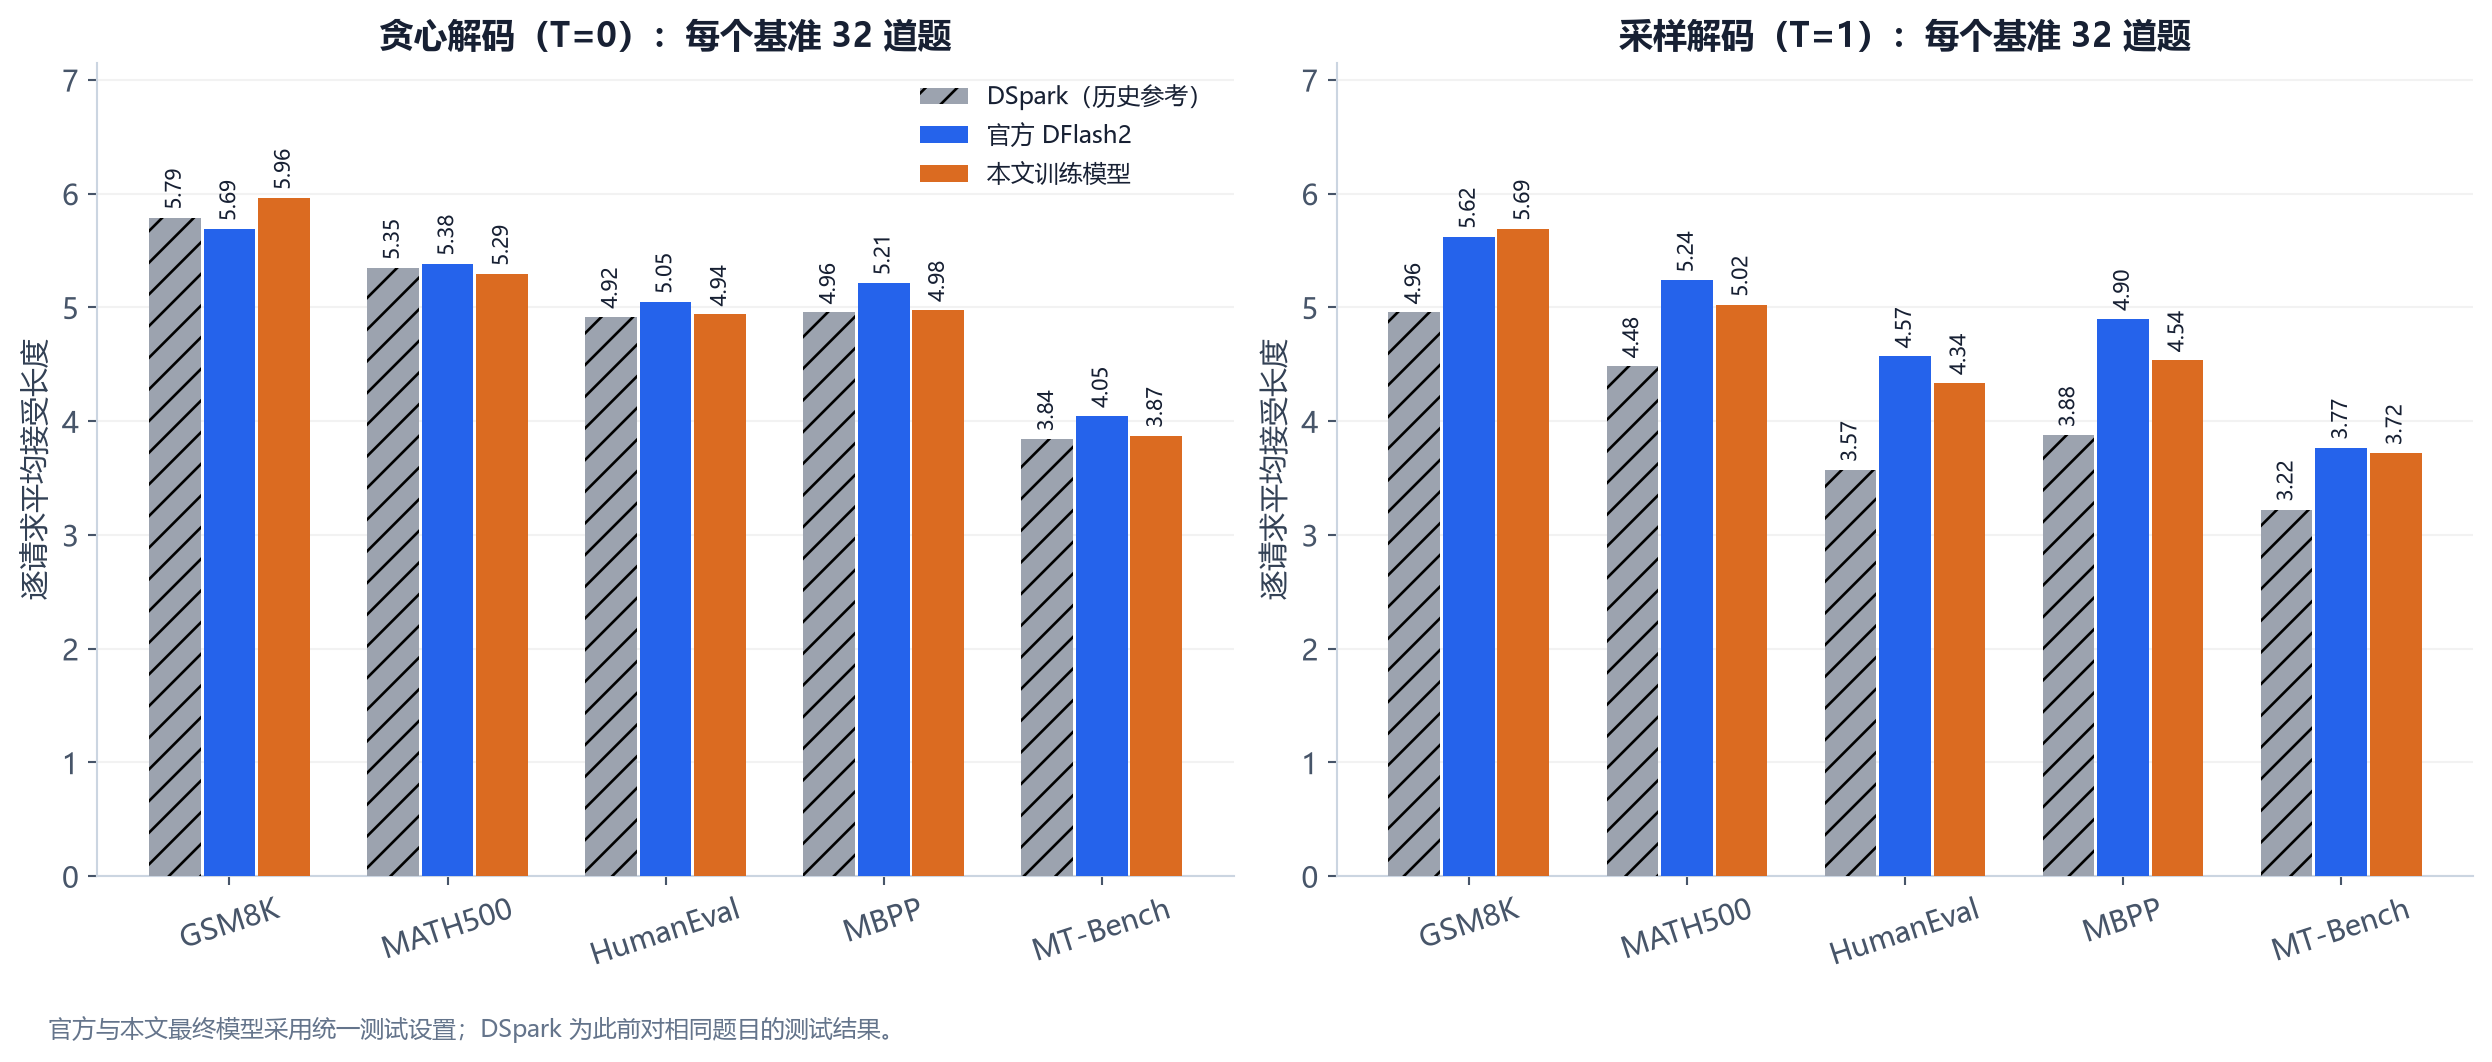
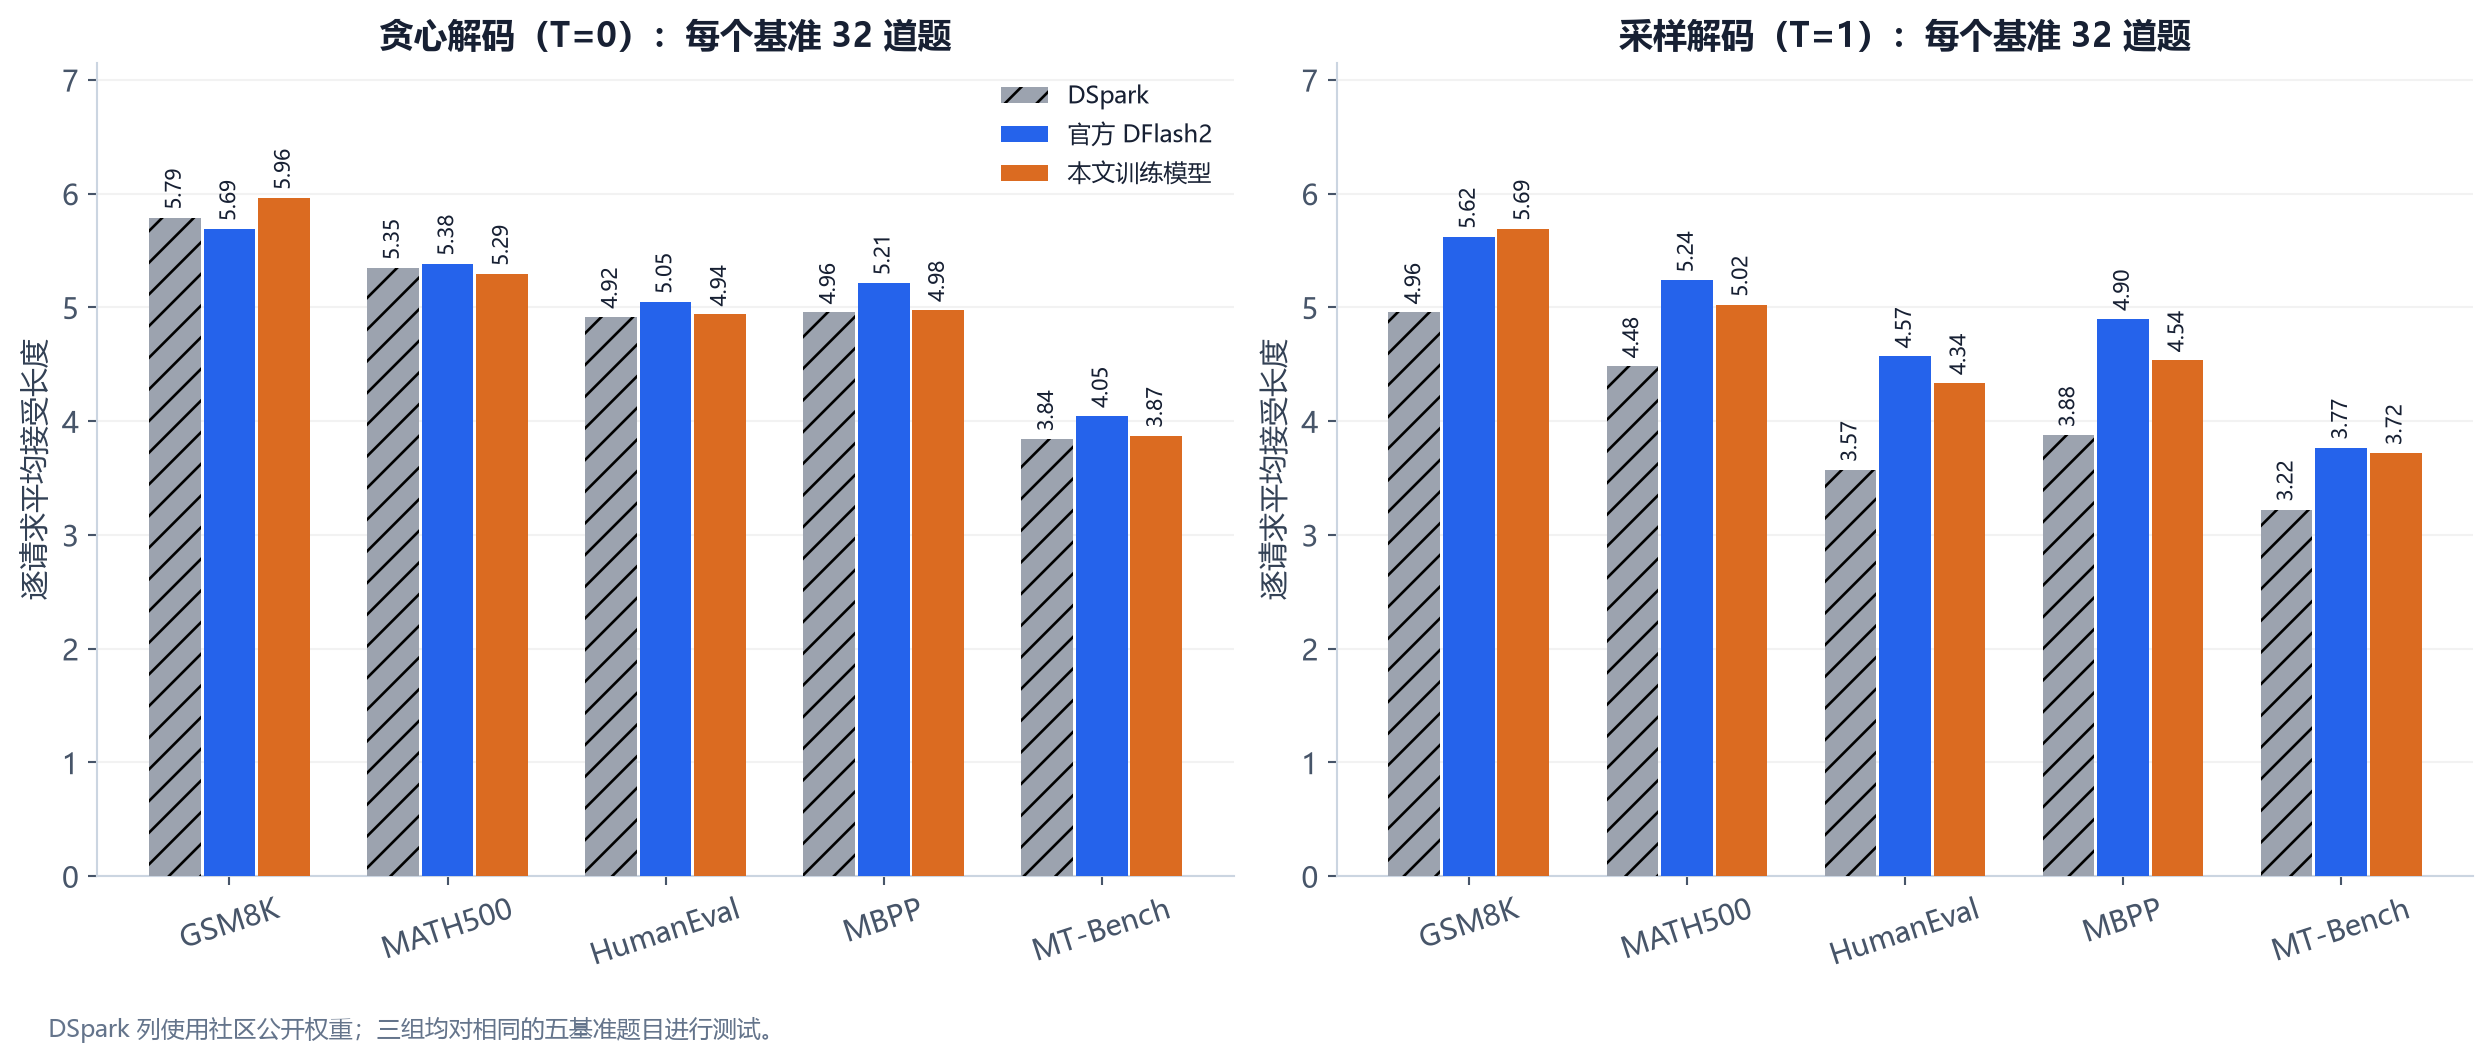
Clarify data generation and DSpark community weight comparison

Changed region(s): [[0.3708, 0.0621, 0.4944, 0.1864], [0.0, 0.9322, 0.3708, 0.9944]]

diff --git a/qwen38-27b-dflash2/Qwen3.8-27B_DFlash2_训练实践.md b/qwen38-27b-dflash2/Qwen3.8-27B_DFlash2_训练实践.md
@@ -34,9 +34,9 @@ DFlash2还在草稿模型中加入**块内动态短卷积**。每个位置结合
 
 本次采用长度为8的草稿块，推理时预测7个草稿token。本文的接受长度统计一次验证平均能推进多少个token，包含目标模型提供的一个基础token，因此理论上限为8。训练时冻结Qwen3.8-27B目标模型，更新草稿模型的主干、局部卷积和候选选择器，实际可训练参数约为**19.24亿**。
 
-## 二、基础训练数据：Open-PerfectBlend的构成与配比
+## 二、训练数据：公开来源、重采样与配比
 
-### 2.1 选择覆盖多个任务的数据
+### 2.1 数据来源与回答重采样
 
 基础训练的问题与对话上下文来自[Open-PerfectBlend](https://huggingface.co/datasets/mlabonne/open-perfectblend)。这个数据集汇集了通用对话、指令遵循、数学和代码任务，主要来源包括：
 
@@ -44,7 +44,29 @@ DFlash2还在草稿模型中加入**块内动态短卷积**。每个位置结合
 - **数学**：MetaMathQA、Orca Math。
 - **代码与交互推理**：Evol-CodeAlpaca、UltraInteract。
 
-我们保留公开数据中的问题与上下文，由Qwen3.8-27B重新生成回答，让草稿模型学习目标模型自己的表达和推理过程。训练前统一对话格式，检查哪些回答token参与监督，并划分训练集和验证集。
+我们还考察了[AQ配方引用的公开训练数据集合](https://modelscope.cn/datasets/inference-optimization/Qwen3-8B-Regenerated-Collection)。除上述来源外，其中还有以下几类题源：
+
+| 数据来源 | 主要内容 |
+|---|---|
+| Magpie | 模型合成的指令与对话，覆盖多样的通用任务 |
+| Nemotron Chat | 通用对话与指令遵循 |
+| Nemotron STEM | 科学、技术、工程与数学相关的知识和推理问题 |
+| Tülu3 | 汇集多个来源的指令微调数据，覆盖对话、推理和代码等任务 |
+
+下面的基础训练配比表统计Open-PerfectBlend的八类来源。后续补充训练还使用过[Nemotron-Post-Training-Dataset-v2](https://huggingface.co/datasets/nvidia/Nemotron-Post-Training-Dataset-v2)的数学部分；这个公开集合本身包含数学、代码、STEM和对话等类别，具体探索放在第六节讨论。
+
+我们保留公开数据中的问题与上下文，由Qwen3.8-27B重新生成回答，让草稿模型学习目标模型自己的表达和推理过程。这次基础数据的回答重采样采用以下参数：
+
+| 参数 | 配置 |
+|---|---|
+| 回答生成模型 | Qwen3.8-27B |
+| Temperature | 1.0 |
+| Top-p / Top-k | 0.95 / 20 |
+| Presence penalty | 1.5 |
+| 推理强度 | xhigh |
+| 最大生成长度 | 8192 token |
+
+这里的8192是生成回答时的输出上限；训练时的单样本上限为4096 token，每卡打包容量为8192 token，三者分别控制回答生成、单条训练序列和批次容量。训练前统一对话格式，检查哪些回答token参与监督，并划分训练集和验证集。
 
 ### 2.2 基础训练的数据配比
 
@@ -90,9 +112,11 @@ DFlash2还在草稿模型中加入**块内动态短卷积**。每个位置结合
 
 本次训练设置单样本上限为**4,096 token**，每张训练卡的打包容量（packed）为**8,192 token**。多个短样本可以进入同一个打包批次，提高容量利用率。
 
-每个打包批次最多抽取**1,024个预测起点**，训练代码中称为anchors。模型从每个起点预测后续最多7个token，再与教师给出的结果比较。1,024是每张卡整个打包批次的上限，打包在一起的样本共享这一数量。
+每个打包批次最多抽取**1,024个预测起点**，训练代码中称为anchors。本次block=8，包含**1个已知的起点token和7个待预测token**：
 
-按1,024×7计算，一个批次最多产生7,168次位置预测。但多个起点可能预测到同一个token，靠近样本末尾时也可能不足7个位置，所以这不等于覆盖了7,168个不同token。
+`[已知起点 | 预测1 | 预测2 | 预测3 | 预测4 | 预测5 | 预测6 | 预测7]`
+
+已知起点不计入预测损失，因此每个批次最多有**1,024×7=7,168个待预测位置**。1,024是每张卡整个打包批次的上限，打包在一起的样本共享这一数量。
 
 ### 3.3 从头重训第一轮：候选选择损失该占多大权重？
 
@@ -132,8 +156,8 @@ DFlash2还在草稿模型中加入**块内动态短卷积**。每个位置结合
 | 随机种子 | 42 |
 | 单样本长度 / 打包容量 | 4096 / 8192每卡 |
 | 预测起点数量 | 最多1024个，每卡打包批次共享 |
-| 主干预测目标 | 0.1×交叉熵 + 0.9×总变差距离 |
-| 候选选择目标 | 对教师最高概率token计算交叉熵 |
+| 主干预测目标 | 0.1 CE + 0.9 TV |
+| 候选选择目标 | 对教师最高概率token计算CE |
 | 候选选择损失权重 | 0.1 |
 | 训练候选 | 每位置保留概率最高的16个候选；若缺少教师首选token，则替换最后一个候选补入 |
 | 位置权重 | 越远的位置权重越低，按指数衰减，参数γ=4 |
@@ -143,7 +167,7 @@ DFlash2还在草稿模型中加入**块内动态短卷积**。每个位置结合
 | 数据加载 | 每张训练卡12个加载进程，每个进程预取4个批次 |
 | 冻结部分 | 目标模型，以及草稿模型使用的词嵌入和输出层 |
 
-主干预测使用两项损失：交叉熵鼓励模型选中教师最可能输出的token，总变差距离约束草稿与教师的整体概率分布。候选选择器另外学习教师首选的token。省略位置权重和归一化后，训练目标可以写成：
+主干预测使用两项损失：CE（Cross-Entropy）鼓励模型选中教师最可能输出的token，TV（Total Variation Distance）约束草稿与教师的整体概率分布。候选选择器另外使用CE学习教师首选的token。省略位置权重和归一化后，训练目标可以写成：
 
 $$
 L=0.1L_{CE}^{主干}+0.9L_{TV}^{主干}+0.1L_{CE}^{候选选择}.
@@ -190,13 +214,13 @@ $$
 | 硬件与精度 | H200、BF16 | H200、BF16 |
 | 模型部署 / 请求并发 | 每个实例使用单卡 / 每次1个请求 | 每个实例使用单卡 / 每次1个请求 |
 
-官方权重和本文模型在这次测试中使用相同题目、采样参数与vLLM运行配置。DSpark结果来自此前对相同题目的测试，主要采样参数一致，作为历史参考单独标注。软件环境为vLLM 0.29.0、PyTorch 2.13.0、Transformers 5.16.1。
+官方权重和本文模型在这次测试中使用相同题目、采样参数与vLLM运行配置。DSpark使用社区公开权重，对相同题目按一致的主要采样参数测试。软件环境为vLLM 0.29.0、PyTorch 2.13.0、Transformers 5.16.1。
 
 主指标为**逐请求平均接受长度**：每道题先计算“1＋被接受的草稿token数÷验证轮数”，再对题目取平均。这个数越大，表示一次验证通常能推进更多token。生成速度则按总输出token数除以总请求耗时计算，单位为token/s；耗时包含输入处理和输出生成。
 
 ### 5.2 贪心解码结果
 
-| 基准 | DSpark（历史参考） | 官方DFlash2 | 本文模型 | 本文模型−官方 |
+| 基准 | DSpark | 官方DFlash2 | 本文模型 | 本文模型−官方 |
 | --- | --- | --- | --- | --- |
 | GSM8K | 5.789 | 5.688 | 5.962 | +0.273 |
 | MATH500 | 5.346 | 5.383 | 5.294 | -0.089 |
@@ -209,7 +233,7 @@ $$
 
 ### 5.3 采样解码结果
 
-| 基准 | DSpark（历史参考） | 官方DFlash2 | 本文模型 | 本文模型−官方 |
+| 基准 | DSpark | 官方DFlash2 | 本文模型 | 本文模型−官方 |
 | --- | --- | --- | --- | --- |
 | GSM8K | 4.958 | 5.620 | 5.691 | +0.070 |
 | MATH500 | 4.484 | 5.236 | 5.022 | -0.214 |
@@ -218,11 +242,13 @@ $$
 | MT-Bench | 3.222 | 3.766 | 3.717 | -0.049 |
 | 五项均值 | 4.022 | 4.819 | 4.660 | -0.158 |
 
+DSpark社区权重：[RadixArk/Qwen3.8-27B-DSpark](https://huggingface.co/RadixArk/Qwen3.8-27B-DSpark)。
+
 采样解码下，本文模型的五项平均接受长度为**4.660**，官方为**4.819**。GSM8K的平均值仍略高，分别为5.691和5.620；其他任务的结果也一并列出，便于判断模型是否适合自己的使用场景。
 
 ![五基准接受长度对比](figures/04_five_benchmark_tau.png)
 
-*图5：五基准的平均接受长度，左侧为贪心解码，右侧为采样解码。橙色柱均对应本文最终模型；灰色斜线柱为DSpark的历史测试结果。*
+*图5：五基准的平均接受长度，左侧为贪心解码，右侧为采样解码。橙色柱均对应本文最终模型；灰色斜线柱为DSpark社区权重的测试结果。*
 
 ### 5.4 单请求生成速度
 
@@ -351,7 +377,7 @@ $$
 
 ## 附录：评测范围与参考资料
 
-本文每个基准只使用32道题，且这些题目在开发中使用过，不能代替完整基准或独立测试集。采样测试的presence penalty为0，而[官方博客](https://inco.ai/blog/dflash2/)使用1.5；因此本文采用重新测试的官方权重结果进行比较。DSpark仅作历史参考。
+本文每个基准只使用32道题，且这些题目在开发中使用过，不能代替完整基准或独立测试集。采样测试的presence penalty为0，而[官方博客](https://inco.ai/blog/dflash2/)使用1.5；因此本文采用重新测试的官方权重结果进行比较。DSpark列对应社区公开权重。
 
 达到4,096 token输出上限的题目也保留在统计中：贪心解码时，官方为15/160、本文模型为18/160；采样解码时分别为21/160和20/160。本文速度数据均为每个实例一次处理一个请求的结果。
 
@@ -362,4 +388,4 @@ $$
 - [配图脚本](render_figures.py)：使用上述数值重新绘制训练与评测图。
 - [DFlash论文](https://arxiv.org/abs/2602.06036)、[DFlash2介绍](https://inco.ai/blog/dflash2/)、[DSpark论文](https://arxiv.org/abs/2607.05147)。
 
-官方权重来自[incoai/Qwen3.8-27B-DFlash2](https://huggingface.co/incoai/Qwen3.8-27B-DFlash2)。本文最终模型的文件校验信息保存在评测资料中，接受长度、速度和条件接受率均对应这一模型。
+官方DFlash2权重来自[incoai/Qwen3.8-27B-DFlash2](https://huggingface.co/incoai/Qwen3.8-27B-DFlash2)，DSpark社区权重来自[RadixArk/Qwen3.8-27B-DSpark](https://huggingface.co/RadixArk/Qwen3.8-27B-DSpark)。本文最终模型的文件校验信息保存在评测资料中，接受长度、速度和条件接受率均对应这一模型。

diff --git a/qwen38-27b-dflash2/README.md b/qwen38-27b-dflash2/README.md
@@ -4,7 +4,7 @@
 
 发布或移动文档时，请同时保留`figures/`目录。正文嵌入PNG，每张图另附SVG矢量版本；公式采用常见Markdown数学语法。
 
-文章以从零训练的数据配比、模型结构和训练参数为主体。第三节集中说明参数选择，并纳入从头重训第一轮的损失权重对照；第六节保留固定已有模型后重跑一轮、补充数据和概率分布匹配等续训探索。五基准主表的接受长度、生成速度和条件接受率统一对应同一最终模型；DSpark为历史测试参考。
+文章以从零训练的数据配比、模型结构和训练参数为主体。第三节集中说明参数选择，并纳入从头重训第一轮的损失权重对照；第六节保留固定已有模型后重跑一轮、补充数据和概率分布匹配等续训探索。五基准主表的接受长度、生成速度和条件接受率统一对应同一最终模型；DSpark列使用[RadixArk社区公开权重](https://huggingface.co/RadixArk/Qwen3.8-27B-DSpark)。
 
 配图分为两类：
 
